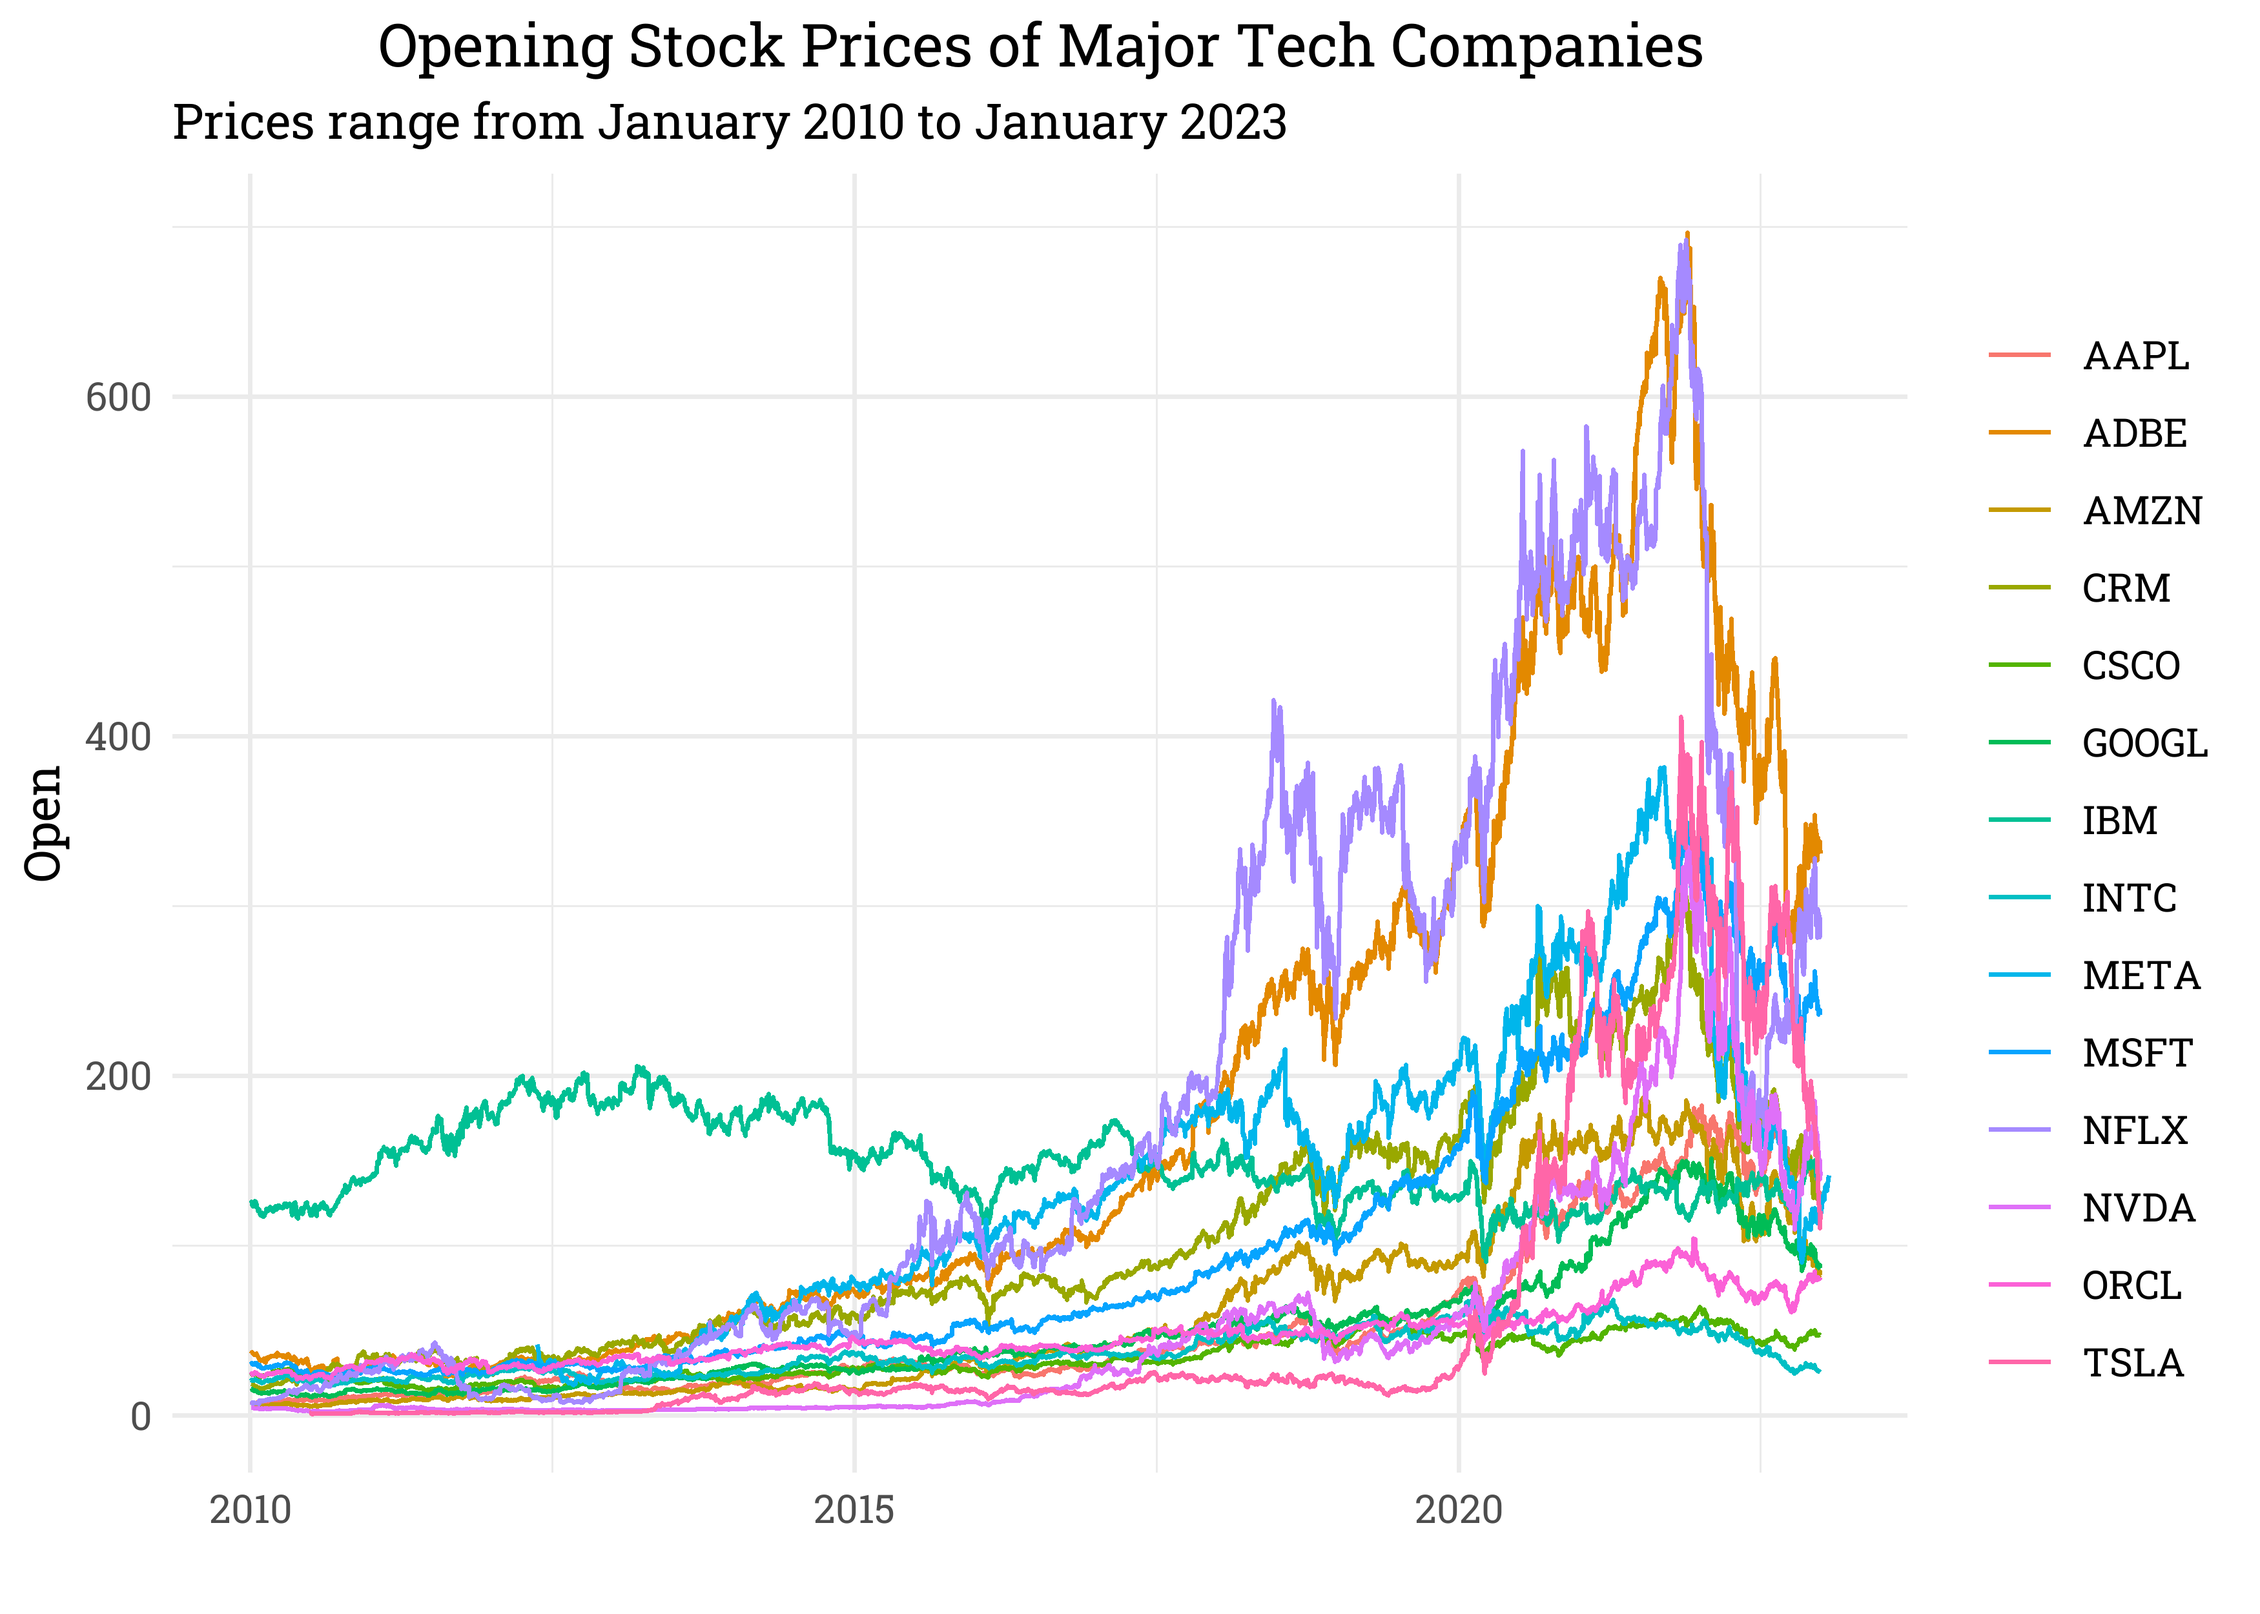
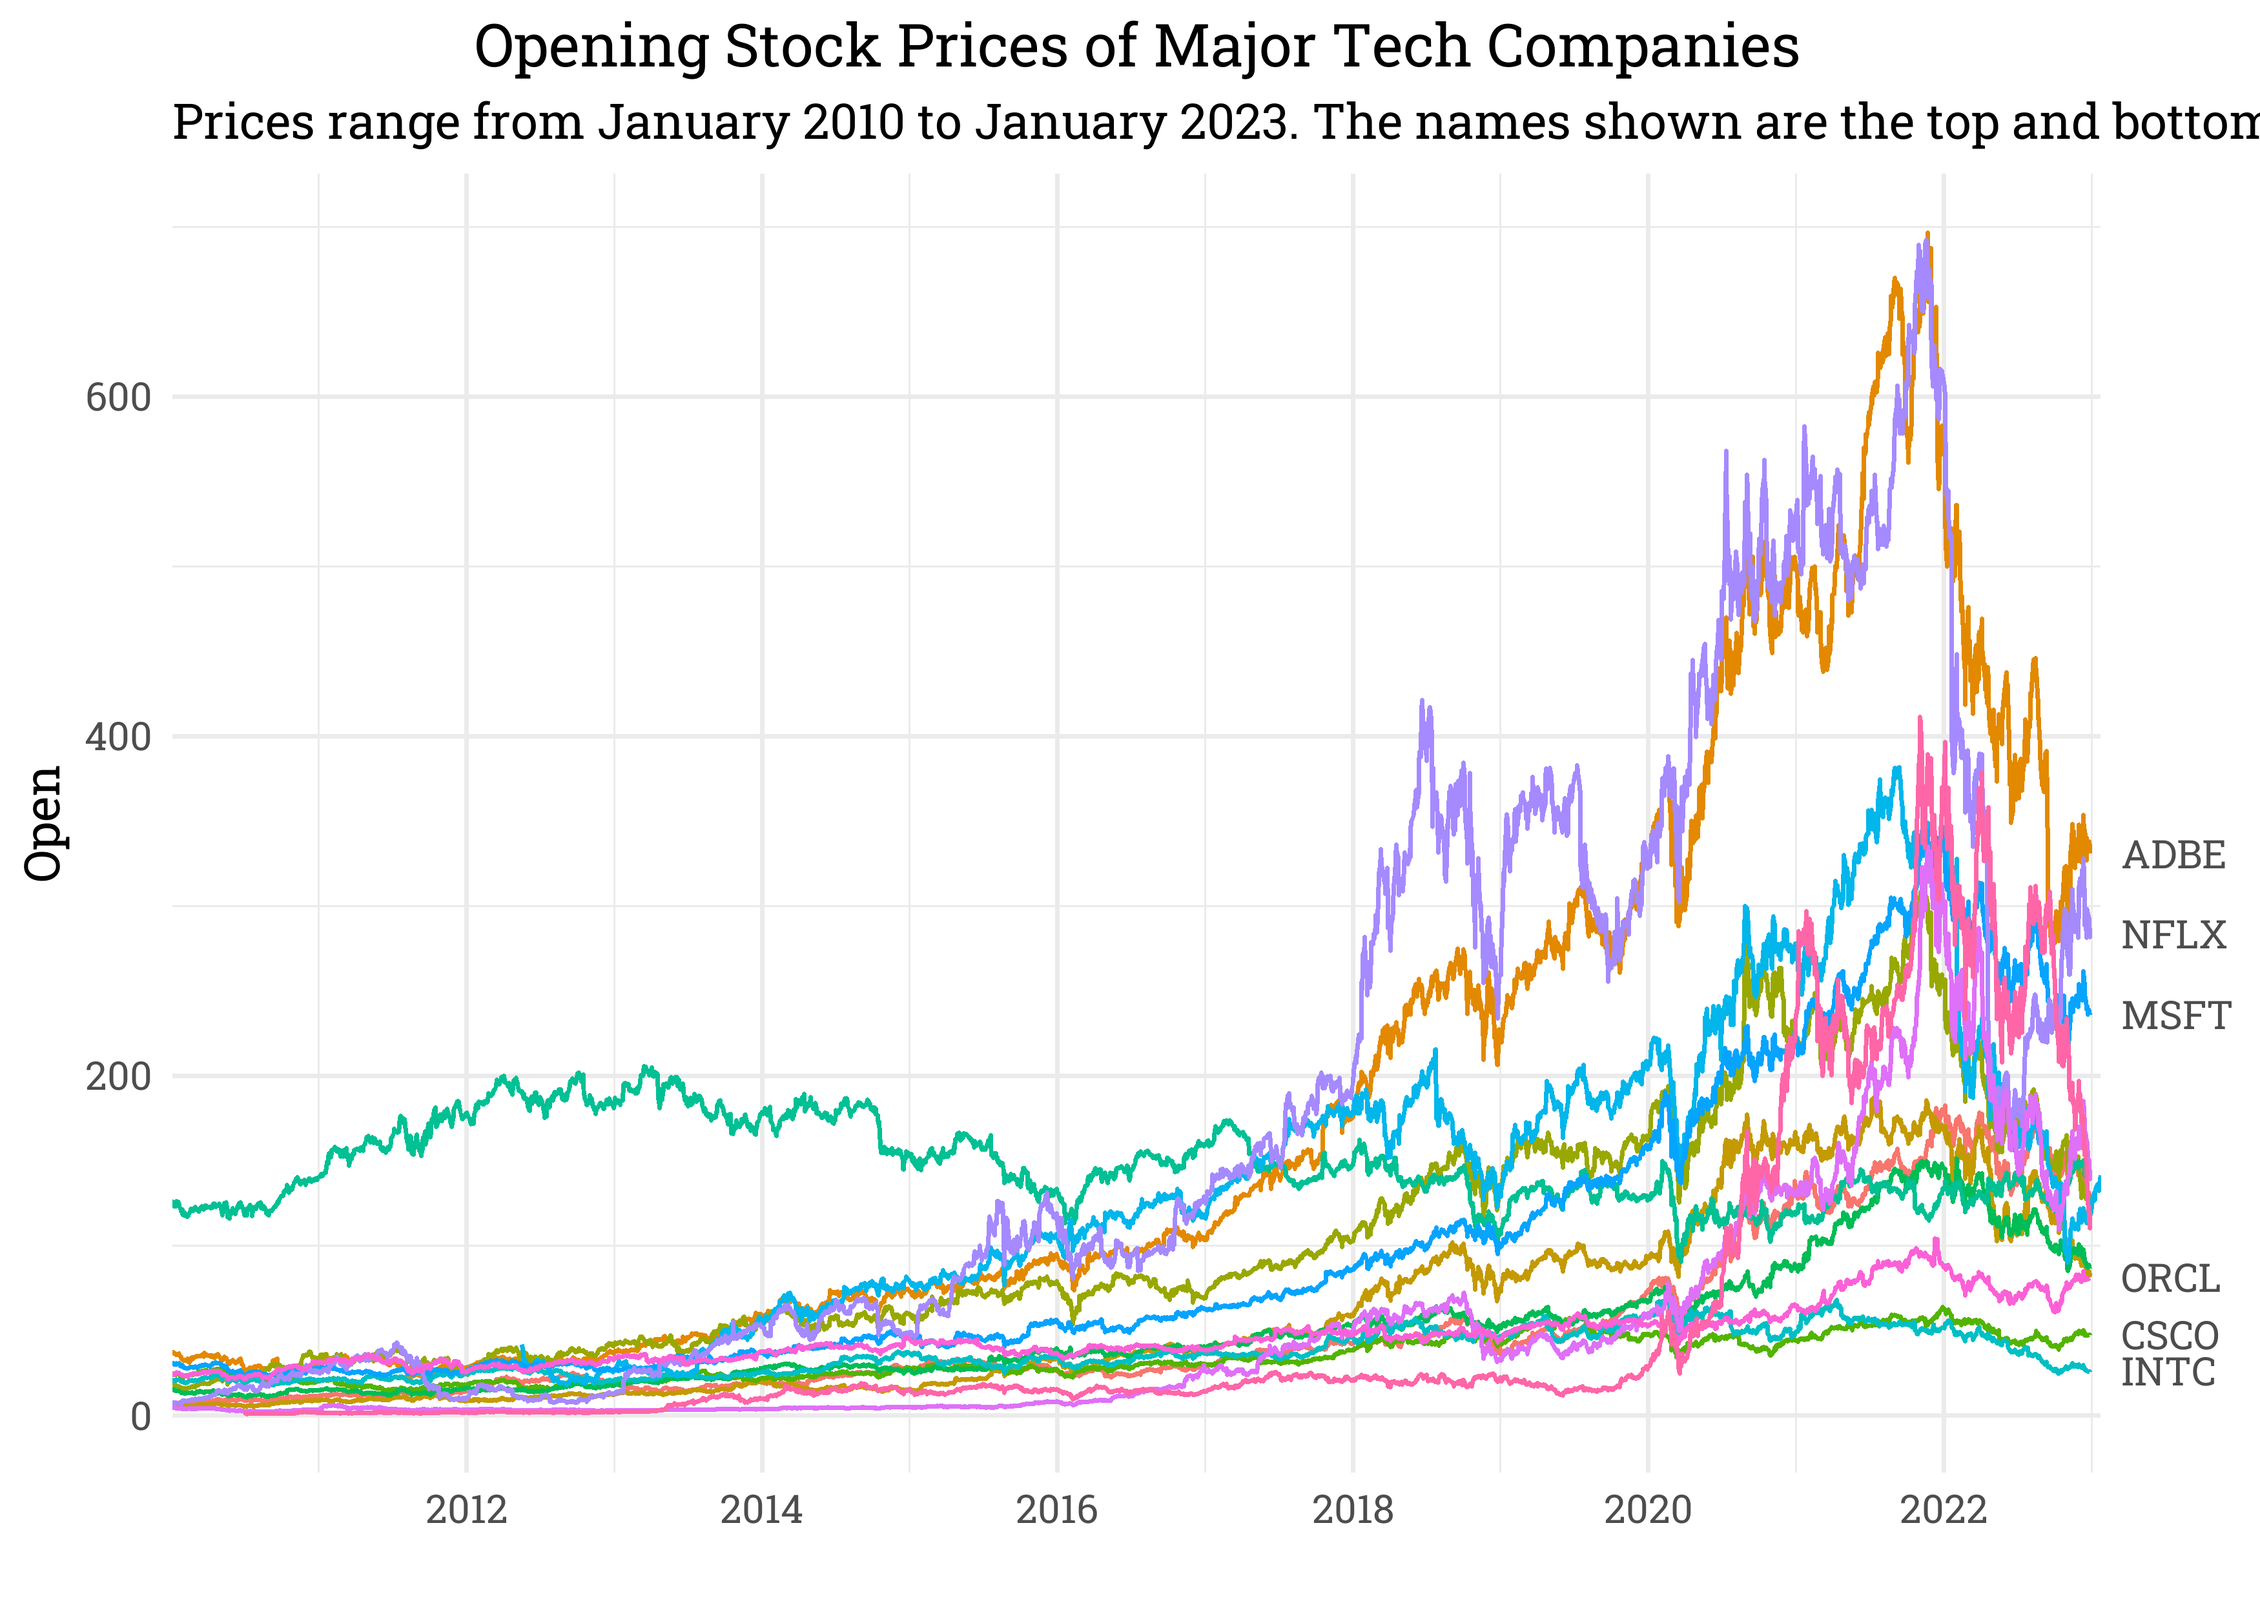
update of first plot, with second y axis

diff --git a/Tech Stock Prices/Tech-Stock-Prices.md b/Tech Stock Prices/Tech-Stock-Prices.md
@@ -30,12 +30,23 @@ final output.
 # Exploratory Data Analysis
 
 ``` r
+end_labels <- 
+  (stocks %>% 
+  group_by(name) %>% 
+  filter(date == max(date)) %>% 
+  arrange(-open) %>% 
+  select(open, name))[c(1:3,12:14),]
+
 stocks %>% 
   ggplot(aes(date, open)) +
   geom_line(aes(color = name)) +
+  scale_y_continuous(
+    sec.axis = sec_axis(~.,breaks = end_labels$open, labels = end_labels$name)) +
+  scale_x_date(expand = c(0,0)) +
   labs(x = "", y = "Open", color = "",
        title = "Opening Stock Prices of Major Tech Companies",
-       subtitle = "Prices range from January 2010 to January 2023")
+       subtitle = "Prices range from January 2010 to January 2023. The names shown are the top and bottom 3 tech stocks at the most recent date.") +
+  theme(legend.position = "none")
 ```
 
 ![](Tech-Stock-Prices_files/figure-gfm/unnamed-chunk-2-1.png)<!-- -->
